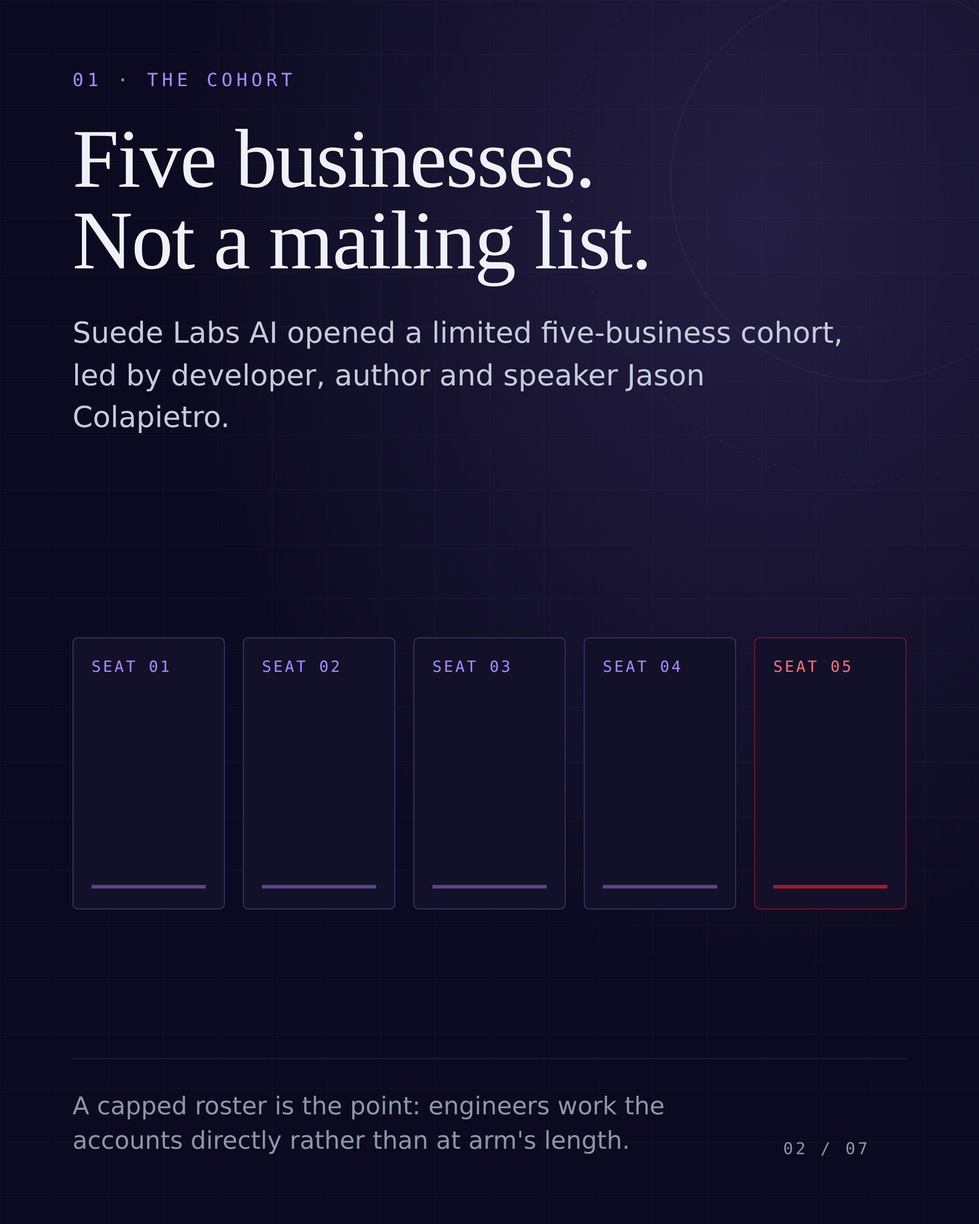
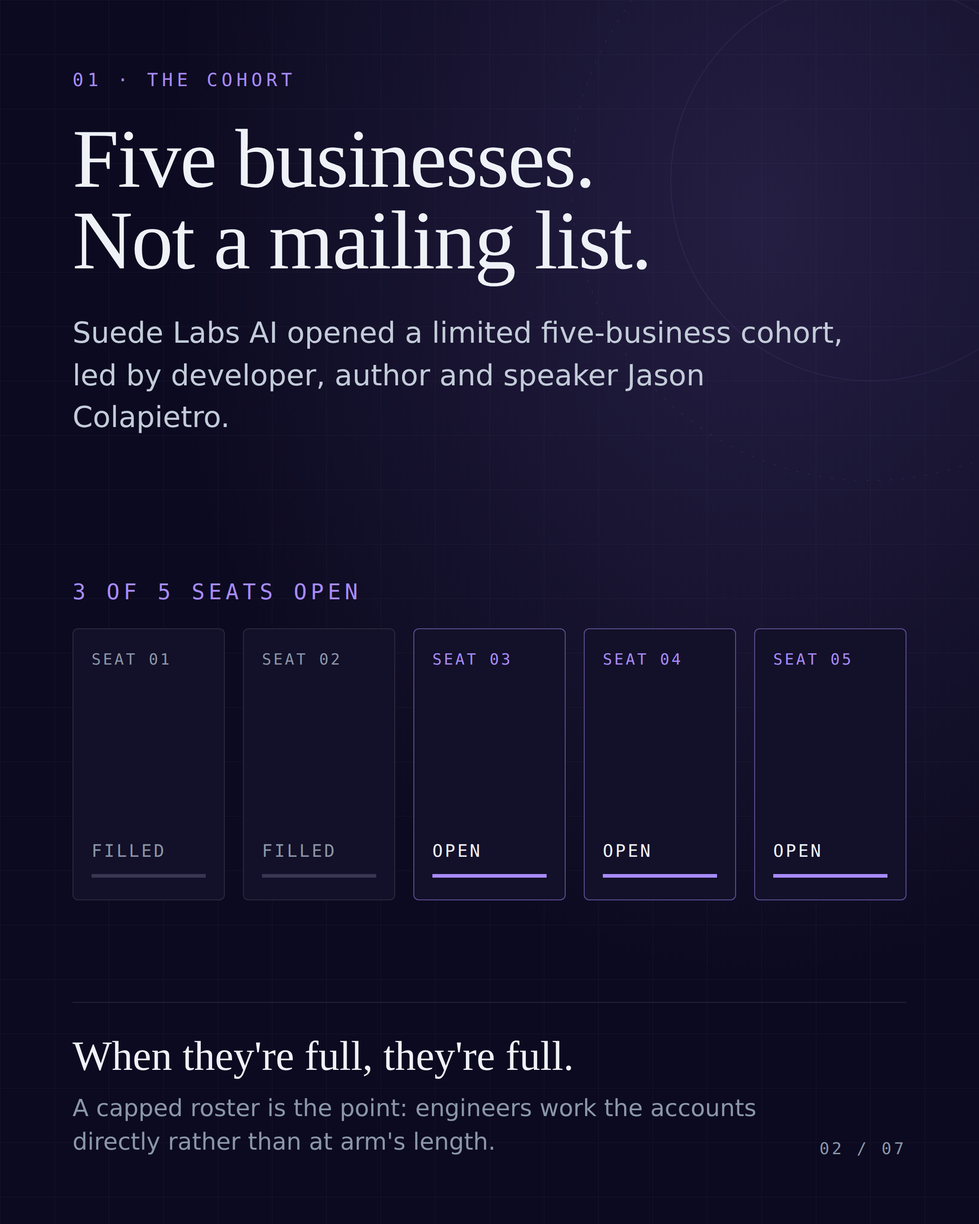
social: lead the carousel with MSN, state the open seat count
The cover's MSN credit was a small pill competing with the constellation
behind it. It is now the first thing on the slide: a plate with the rights-red
edge, "AS REPORTED ON" over MSN set at 92px in the display serif. Everything
else on the cover is unchanged.

The cohort's availability is live information and now says so. Slide 2 marks
seats 01-02 FILLED and 03-05 OPEN, headed "3 OF 5 SEATS OPEN" and closing on
"When they're full, they're full."; the cover carries the count as a chip and
slide 7 repeats it at the call to action, where the ask actually is. The
capped-roster note stays.

Hierarchy on the spent seats comes from the border and rule rather than
dimmer text: #5b5670 on the card reads 2.3:1, so the labels stay at the muted
token and only the non-text furniture dims. Seat cards clear AA in both
themes, lowest 6.10:1.

Two fixes found while rendering. The page number wrapped to two lines once the
slide 2 footer grew, so every footer number is now nowrap and unshrinkable.
And the light theme mapped panel ink by enumerating each alpha, so the new
cover plate and chip stayed dark on paper; it matches the surface colour at
any alpha now, and the leftover check covers both surface inks.

Sources 03-06 change only by that nowrap rule and re-render byte-identical.

Claude-Session: https://claude.ai/code/session_014U9jyxKPEFNFUuQV97f7mV

diff --git a/social/ig-carousel/src/dark-02-five-businesses.html b/social/ig-carousel/src/dark-02-five-businesses.html
@@ -46,34 +46,54 @@ a { color: #a78bfa; } a:hover { color: #c4b5fd; }
 
     <span style="flex-grow: 1;"></span>
 
-    <div style="margin-top: 56px; display: flex; gap: 20px;">
-      <div style="flex-grow: 1; height: 300px; border: 1px solid rgba(167, 139, 250, 0.30); border-radius: 6px; background: #131029; display: flex; flex-direction: column; justify-content: space-between; padding: 22px 20px; box-sizing: border-box;">
-        <span style="font-family: 'Geist Mono', ui-monospace, monospace; font-size: 17px; letter-spacing: 0.14em; color: #a78bfa;">SEAT 01</span>
-        <span style="width: 100%; height: 4px; background: rgba(167, 139, 250, 0.45); display: block;"></span>
+    <p style="margin: 44px 0 0 0; font-family: 'Geist Mono', ui-monospace, monospace; font-size: 24px; letter-spacing: 0.18em; color: #a78bfa; font-weight: 500;">3 OF 5 SEATS OPEN</p>
+
+    <div style="margin-top: 26px; display: flex; gap: 20px;">
+      <div style="flex-grow: 1; flex-basis: 0; height: 300px; border: 1px solid rgba(255, 255, 255, 0.10); border-radius: 6px; background: #131029; display: flex; flex-direction: column; justify-content: space-between; padding: 24px 20px; box-sizing: border-box;">
+        <span style="font-family: 'Geist Mono', ui-monospace, monospace; font-size: 17px; letter-spacing: 0.14em; color: #8a97a8;">SEAT 01</span>
+        <div>
+          <span style="display: block; font-family: 'Geist Mono', ui-monospace, monospace; font-size: 19px; letter-spacing: 0.12em; color: #8a97a8; margin-bottom: 14px;">FILLED</span>
+          <span style="display: block; width: 100%; height: 4px; background: #3a3550;"></span>
+        </div>
       </div>
-      <div style="flex-grow: 1; height: 300px; border: 1px solid rgba(167, 139, 250, 0.30); border-radius: 6px; background: #131029; display: flex; flex-direction: column; justify-content: space-between; padding: 22px 20px; box-sizing: border-box;">
-        <span style="font-family: 'Geist Mono', ui-monospace, monospace; font-size: 17px; letter-spacing: 0.14em; color: #a78bfa;">SEAT 02</span>
-        <span style="width: 100%; height: 4px; background: rgba(167, 139, 250, 0.45); display: block;"></span>
+      <div style="flex-grow: 1; flex-basis: 0; height: 300px; border: 1px solid rgba(255, 255, 255, 0.10); border-radius: 6px; background: #131029; display: flex; flex-direction: column; justify-content: space-between; padding: 24px 20px; box-sizing: border-box;">
+        <span style="font-family: 'Geist Mono', ui-monospace, monospace; font-size: 17px; letter-spacing: 0.14em; color: #8a97a8;">SEAT 02</span>
+        <div>
+          <span style="display: block; font-family: 'Geist Mono', ui-monospace, monospace; font-size: 19px; letter-spacing: 0.12em; color: #8a97a8; margin-bottom: 14px;">FILLED</span>
+          <span style="display: block; width: 100%; height: 4px; background: #3a3550;"></span>
+        </div>
       </div>
-      <div style="flex-grow: 1; height: 300px; border: 1px solid rgba(167, 139, 250, 0.30); border-radius: 6px; background: #131029; display: flex; flex-direction: column; justify-content: space-between; padding: 22px 20px; box-sizing: border-box;">
+      <div style="flex-grow: 1; flex-basis: 0; height: 300px; border: 1px solid rgba(167, 139, 250, 0.50); border-radius: 6px; background: #131029; display: flex; flex-direction: column; justify-content: space-between; padding: 24px 20px; box-sizing: border-box;">
         <span style="font-family: 'Geist Mono', ui-monospace, monospace; font-size: 17px; letter-spacing: 0.14em; color: #a78bfa;">SEAT 03</span>
-        <span style="width: 100%; height: 4px; background: rgba(167, 139, 250, 0.45); display: block;"></span>
+        <div>
+          <span style="display: block; font-family: 'Geist Mono', ui-monospace, monospace; font-size: 19px; letter-spacing: 0.12em; color: #eef2f7; margin-bottom: 14px;">OPEN</span>
+          <span style="display: block; width: 100%; height: 4px; background: #a78bfa;"></span>
+        </div>
       </div>
-      <div style="flex-grow: 1; height: 300px; border: 1px solid rgba(167, 139, 250, 0.30); border-radius: 6px; background: #131029; display: flex; flex-direction: column; justify-content: space-between; padding: 22px 20px; box-sizing: border-box;">
+      <div style="flex-grow: 1; flex-basis: 0; height: 300px; border: 1px solid rgba(167, 139, 250, 0.50); border-radius: 6px; background: #131029; display: flex; flex-direction: column; justify-content: space-between; padding: 24px 20px; box-sizing: border-box;">
         <span style="font-family: 'Geist Mono', ui-monospace, monospace; font-size: 17px; letter-spacing: 0.14em; color: #a78bfa;">SEAT 04</span>
-        <span style="width: 100%; height: 4px; background: rgba(167, 139, 250, 0.45); display: block;"></span>
+        <div>
+          <span style="display: block; font-family: 'Geist Mono', ui-monospace, monospace; font-size: 19px; letter-spacing: 0.12em; color: #eef2f7; margin-bottom: 14px;">OPEN</span>
+          <span style="display: block; width: 100%; height: 4px; background: #a78bfa;"></span>
+        </div>
       </div>
-      <div style="flex-grow: 1; height: 300px; border: 1px solid rgba(209, 31, 43, 0.55); border-radius: 6px; background: #131029; display: flex; flex-direction: column; justify-content: space-between; padding: 22px 20px; box-sizing: border-box;">
-        <span style="font-family: 'Geist Mono', ui-monospace, monospace; font-size: 17px; letter-spacing: 0.14em; color: #f07179;">SEAT 05</span>
-        <span style="width: 100%; height: 4px; background: rgba(209, 31, 43, 0.75); display: block;"></span>
+      <div style="flex-grow: 1; flex-basis: 0; height: 300px; border: 1px solid rgba(167, 139, 250, 0.50); border-radius: 6px; background: #131029; display: flex; flex-direction: column; justify-content: space-between; padding: 24px 20px; box-sizing: border-box;">
+        <span style="font-family: 'Geist Mono', ui-monospace, monospace; font-size: 17px; letter-spacing: 0.14em; color: #a78bfa;">SEAT 05</span>
+        <div>
+          <span style="display: block; font-family: 'Geist Mono', ui-monospace, monospace; font-size: 19px; letter-spacing: 0.12em; color: #eef2f7; margin-bottom: 14px;">OPEN</span>
+          <span style="display: block; width: 100%; height: 4px; background: #a78bfa;"></span>
+        </div>
       </div>
     </div>
 
     <span style="flex-grow: 1;"></span>
 
     <div style="border-top: 1px solid rgba(255, 255, 255, 0.10); padding-top: 34px; display: flex; align-items: flex-end; gap: 24px;">
-      <p style="margin: 0; flex-grow: 1; font-size: 27px; line-height: 1.4; color: #8a97a8; max-width: 760px; font-weight: 300;">A capped roster is the point: engineers work the accounts directly rather than at arm's length.</p>
-      <p style="margin: 0; font-family: 'Geist Mono', ui-monospace, monospace; font-size: 18px; letter-spacing: 0.16em; color: #8a97a8;">02 / 07</p>
+      <div style="flex-grow: 1; max-width: 800px;">
+        <p style="margin: 0; font-family: 'Instrument Serif', Georgia, serif; font-size: 46px; line-height: 1.08; color: #eef2f7; font-weight: 400;">When they're full, they're full.</p>
+        <p style="margin: 16px 0 0 0; font-size: 26px; line-height: 1.4; color: #8a97a8; font-weight: 300;">A capped roster is the point: engineers work the accounts directly rather than at arm's length.</p>
+      </div>
+      <p style="margin: 0; font-family: 'Geist Mono', ui-monospace, monospace; font-size: 18px; letter-spacing: 0.16em; color: #8a97a8; white-space: nowrap; flex-shrink: 0;">02 / 07</p>
     </div>
 
   </div>

diff --git a/social/ig-carousel/src/light-02-five-businesses.html b/social/ig-carousel/src/light-02-five-businesses.html
@@ -46,34 +46,54 @@ a { color: #6d28d9; } a:hover { color: #7c3aed; }
 
     <span style="flex-grow: 1;"></span>
 
-    <div style="margin-top: 56px; display: flex; gap: 20px;">
-      <div style="flex-grow: 1; height: 300px; border: 1px solid rgba(109, 40, 217, 0.30); border-radius: 6px; background: #f1eefb; display: flex; flex-direction: column; justify-content: space-between; padding: 22px 20px; box-sizing: border-box;">
-        <span style="font-family: 'Geist Mono', ui-monospace, monospace; font-size: 17px; letter-spacing: 0.14em; color: #6d28d9;">SEAT 01</span>
-        <span style="width: 100%; height: 4px; background: rgba(109, 40, 217, 0.45); display: block;"></span>
+    <p style="margin: 44px 0 0 0; font-family: 'Geist Mono', ui-monospace, monospace; font-size: 24px; letter-spacing: 0.18em; color: #6d28d9; font-weight: 500;">3 OF 5 SEATS OPEN</p>
+
+    <div style="margin-top: 26px; display: flex; gap: 20px;">
+      <div style="flex-grow: 1; flex-basis: 0; height: 300px; border: 1px solid rgba(20, 18, 31, 0.14); border-radius: 6px; background: #f1eefb; display: flex; flex-direction: column; justify-content: space-between; padding: 24px 20px; box-sizing: border-box;">
+        <span style="font-family: 'Geist Mono', ui-monospace, monospace; font-size: 17px; letter-spacing: 0.14em; color: #5b5670;">SEAT 01</span>
+        <div>
+          <span style="display: block; font-family: 'Geist Mono', ui-monospace, monospace; font-size: 19px; letter-spacing: 0.12em; color: #5b5670; margin-bottom: 14px;">FILLED</span>
+          <span style="display: block; width: 100%; height: 4px; background: #d6d1e4;"></span>
+        </div>
       </div>
-      <div style="flex-grow: 1; height: 300px; border: 1px solid rgba(109, 40, 217, 0.30); border-radius: 6px; background: #f1eefb; display: flex; flex-direction: column; justify-content: space-between; padding: 22px 20px; box-sizing: border-box;">
-        <span style="font-family: 'Geist Mono', ui-monospace, monospace; font-size: 17px; letter-spacing: 0.14em; color: #6d28d9;">SEAT 02</span>
-        <span style="width: 100%; height: 4px; background: rgba(109, 40, 217, 0.45); display: block;"></span>
+      <div style="flex-grow: 1; flex-basis: 0; height: 300px; border: 1px solid rgba(20, 18, 31, 0.14); border-radius: 6px; background: #f1eefb; display: flex; flex-direction: column; justify-content: space-between; padding: 24px 20px; box-sizing: border-box;">
+        <span style="font-family: 'Geist Mono', ui-monospace, monospace; font-size: 17px; letter-spacing: 0.14em; color: #5b5670;">SEAT 02</span>
+        <div>
+          <span style="display: block; font-family: 'Geist Mono', ui-monospace, monospace; font-size: 19px; letter-spacing: 0.12em; color: #5b5670; margin-bottom: 14px;">FILLED</span>
+          <span style="display: block; width: 100%; height: 4px; background: #d6d1e4;"></span>
+        </div>
       </div>
-      <div style="flex-grow: 1; height: 300px; border: 1px solid rgba(109, 40, 217, 0.30); border-radius: 6px; background: #f1eefb; display: flex; flex-direction: column; justify-content: space-between; padding: 22px 20px; box-sizing: border-box;">
+      <div style="flex-grow: 1; flex-basis: 0; height: 300px; border: 1px solid rgba(109, 40, 217, 0.50); border-radius: 6px; background: #f1eefb; display: flex; flex-direction: column; justify-content: space-between; padding: 24px 20px; box-sizing: border-box;">
         <span style="font-family: 'Geist Mono', ui-monospace, monospace; font-size: 17px; letter-spacing: 0.14em; color: #6d28d9;">SEAT 03</span>
-        <span style="width: 100%; height: 4px; background: rgba(109, 40, 217, 0.45); display: block;"></span>
+        <div>
+          <span style="display: block; font-family: 'Geist Mono', ui-monospace, monospace; font-size: 19px; letter-spacing: 0.12em; color: #14121f; margin-bottom: 14px;">OPEN</span>
+          <span style="display: block; width: 100%; height: 4px; background: #6d28d9;"></span>
+        </div>
       </div>
-      <div style="flex-grow: 1; height: 300px; border: 1px solid rgba(109, 40, 217, 0.30); border-radius: 6px; background: #f1eefb; display: flex; flex-direction: column; justify-content: space-between; padding: 22px 20px; box-sizing: border-box;">
+      <div style="flex-grow: 1; flex-basis: 0; height: 300px; border: 1px solid rgba(109, 40, 217, 0.50); border-radius: 6px; background: #f1eefb; display: flex; flex-direction: column; justify-content: space-between; padding: 24px 20px; box-sizing: border-box;">
         <span style="font-family: 'Geist Mono', ui-monospace, monospace; font-size: 17px; letter-spacing: 0.14em; color: #6d28d9;">SEAT 04</span>
-        <span style="width: 100%; height: 4px; background: rgba(109, 40, 217, 0.45); display: block;"></span>
+        <div>
+          <span style="display: block; font-family: 'Geist Mono', ui-monospace, monospace; font-size: 19px; letter-spacing: 0.12em; color: #14121f; margin-bottom: 14px;">OPEN</span>
+          <span style="display: block; width: 100%; height: 4px; background: #6d28d9;"></span>
+        </div>
       </div>
-      <div style="flex-grow: 1; height: 300px; border: 1px solid rgba(185, 28, 28, 0.55); border-radius: 6px; background: #f1eefb; display: flex; flex-direction: column; justify-content: space-between; padding: 22px 20px; box-sizing: border-box;">
-        <span style="font-family: 'Geist Mono', ui-monospace, monospace; font-size: 17px; letter-spacing: 0.14em; color: #b91c1c;">SEAT 05</span>
-        <span style="width: 100%; height: 4px; background: rgba(185, 28, 28, 0.75); display: block;"></span>
+      <div style="flex-grow: 1; flex-basis: 0; height: 300px; border: 1px solid rgba(109, 40, 217, 0.50); border-radius: 6px; background: #f1eefb; display: flex; flex-direction: column; justify-content: space-between; padding: 24px 20px; box-sizing: border-box;">
+        <span style="font-family: 'Geist Mono', ui-monospace, monospace; font-size: 17px; letter-spacing: 0.14em; color: #6d28d9;">SEAT 05</span>
+        <div>
+          <span style="display: block; font-family: 'Geist Mono', ui-monospace, monospace; font-size: 19px; letter-spacing: 0.12em; color: #14121f; margin-bottom: 14px;">OPEN</span>
+          <span style="display: block; width: 100%; height: 4px; background: #6d28d9;"></span>
+        </div>
       </div>
     </div>
 
     <span style="flex-grow: 1;"></span>
 
     <div style="border-top: 1px solid rgba(20, 18, 31, 0.14); padding-top: 34px; display: flex; align-items: flex-end; gap: 24px;">
-      <p style="margin: 0; flex-grow: 1; font-size: 27px; line-height: 1.4; color: #5b5670; max-width: 760px; font-weight: 300;">A capped roster is the point: engineers work the accounts directly rather than at arm's length.</p>
-      <p style="margin: 0; font-family: 'Geist Mono', ui-monospace, monospace; font-size: 18px; letter-spacing: 0.16em; color: #5b5670;">02 / 07</p>
+      <div style="flex-grow: 1; max-width: 800px;">
+        <p style="margin: 0; font-family: 'Instrument Serif', Georgia, serif; font-size: 46px; line-height: 1.08; color: #14121f; font-weight: 400;">When they're full, they're full.</p>
+        <p style="margin: 16px 0 0 0; font-size: 26px; line-height: 1.4; color: #5b5670; font-weight: 300;">A capped roster is the point: engineers work the accounts directly rather than at arm's length.</p>
+      </div>
+      <p style="margin: 0; font-family: 'Geist Mono', ui-monospace, monospace; font-size: 18px; letter-spacing: 0.16em; color: #5b5670; white-space: nowrap; flex-shrink: 0;">02 / 07</p>
     </div>
 
   </div>

diff --git a/social/ig-carousel/src/light-01-cover.html b/social/ig-carousel/src/light-01-cover.html
@@ -87,13 +87,16 @@ a { color: #6d28d9; } a:hover { color: #7c3aed; }
 
   <div style="position: relative; width: 1080px; height: 1350px; box-sizing: border-box; padding: 76px 80px 72px 80px; display: flex; flex-direction: column;">
 
-    <div style="display: flex; align-items: center; gap: 20px;">
-      <div style="display: flex; align-items: center; gap: 12px; padding: 12px 22px; border: 1px solid rgba(109, 40, 217, 0.38); border-radius: 999px; background: rgba(255, 255, 255, 0.90);">
-        <span style="width: 10px; height: 10px; border-radius: 999px; background: #b91c1c; display: inline-block;"></span>
-        <span style="font-family: 'Geist Mono', ui-monospace, monospace; font-size: 20px; letter-spacing: 0.18em; color: #14121f; font-weight: 500;">AS REPORTED ON MSN</span>
+    <div style="display: flex; align-items: stretch; border: 1px solid rgba(109, 40, 217, 0.32); border-radius: 8px; background: rgba(255, 255, 255, 0.90); overflow: hidden;">
+      <div style="width: 10px; background: #9f101a; flex-shrink: 0;"></div>
+      <div style="flex-grow: 1; padding: 24px 32px 28px 32px;">
+        <p style="margin: 0; font-family: 'Geist Mono', ui-monospace, monospace; font-size: 19px; letter-spacing: 0.24em; color: #5b5670; font-weight: 500;">AS REPORTED ON</p>
+        <div style="margin-top: 6px; display: flex; align-items: baseline; gap: 22px;">
+          <p style="margin: 0; font-family: 'Instrument Serif', Georgia, serif; font-size: 92px; line-height: 1; color: #14121f; font-weight: 400; letter-spacing: 0.01em;">MSN</p>
+          <span style="flex-grow: 1;"></span>
+          <p style="margin: 0; font-family: 'Geist Mono', ui-monospace, monospace; font-size: 19px; letter-spacing: 0.16em; color: #5b5670;">SEPT 2026</p>
+        </div>
       </div>
-      <span style="flex-grow: 1;"></span>
-      <span style="font-family: 'Geist Mono', ui-monospace, monospace; font-size: 19px; letter-spacing: 0.16em; color: #5b5670;">SEPT 2026</span>
     </div>
 
     <span style="flex-grow: 1;"></span>
@@ -106,11 +109,16 @@ a { color: #6d28d9; } a:hover { color: #7c3aed; }
 
     <p style="margin: 34px 0 0 0; font-size: 34px; line-height: 1.42; color: #3f3a52; max-width: 840px; font-weight: 300;">Five businesses. Search, answer and generative engine optimization — with optional AI integration and live agent workflows.</p>
 
-    <div style="margin-top: 56px; display: flex; align-items: flex-end; gap: 24px;">
+    <div style="margin-top: 32px; display: flex; align-items: center; gap: 14px; align-self: flex-start; padding: 15px 26px; border: 1px solid rgba(109, 40, 217, 0.50); border-radius: 999px; background: rgba(255, 255, 255, 0.92);">
+      <span style="width: 10px; height: 10px; border-radius: 999px; background: #6d28d9; display: inline-block;"></span>
+      <span style="font-family: 'Geist Mono', ui-monospace, monospace; font-size: 22px; letter-spacing: 0.16em; color: #14121f; font-weight: 500;">3 OF 5 SEATS OPEN</span>
+    </div>
+
+    <div style="margin-top: 40px; display: flex; align-items: flex-end; gap: 24px;">
       <div style="flex-grow: 1;">
-        <p style="margin: 0; font-family: 'Geist Mono', ui-monospace, monospace; font-size: 18px; letter-spacing: 0.16em; color: #5b5670;">SWIPE →</p>
+        <p style="margin: 0; font-family: 'Geist Mono', ui-monospace, monospace; font-size: 18px; letter-spacing: 0.16em; color: #5b5670; white-space: nowrap; flex-shrink: 0;">SWIPE →</p>
       </div>
-      <p style="margin: 0; font-family: 'Geist Mono', ui-monospace, monospace; font-size: 18px; letter-spacing: 0.16em; color: #5b5670;">01 / 07</p>
+      <p style="margin: 0; font-family: 'Geist Mono', ui-monospace, monospace; font-size: 18px; letter-spacing: 0.16em; color: #5b5670; white-space: nowrap; flex-shrink: 0;">01 / 07</p>
     </div>
 
   </div>

diff --git a/social/ig-carousel/src/dark-01-cover.html b/social/ig-carousel/src/dark-01-cover.html
@@ -87,13 +87,16 @@ a { color: #a78bfa; } a:hover { color: #c4b5fd; }
 
   <div style="position: relative; width: 1080px; height: 1350px; box-sizing: border-box; padding: 76px 80px 72px 80px; display: flex; flex-direction: column;">
 
-    <div style="display: flex; align-items: center; gap: 20px;">
-      <div style="display: flex; align-items: center; gap: 12px; padding: 12px 22px; border: 1px solid rgba(167, 139, 250, 0.38); border-radius: 999px; background: rgba(19, 16, 41, 0.82);">
-        <span style="width: 10px; height: 10px; border-radius: 999px; background: #d11f2b; display: inline-block;"></span>
-        <span style="font-family: 'Geist Mono', ui-monospace, monospace; font-size: 20px; letter-spacing: 0.18em; color: #eef2f7; font-weight: 500;">AS REPORTED ON MSN</span>
+    <div style="display: flex; align-items: stretch; border: 1px solid rgba(167, 139, 250, 0.32); border-radius: 8px; background: rgba(19, 16, 41, 0.90); overflow: hidden;">
+      <div style="width: 10px; background: #9f101a; flex-shrink: 0;"></div>
+      <div style="flex-grow: 1; padding: 24px 32px 28px 32px;">
+        <p style="margin: 0; font-family: 'Geist Mono', ui-monospace, monospace; font-size: 19px; letter-spacing: 0.24em; color: #8a97a8; font-weight: 500;">AS REPORTED ON</p>
+        <div style="margin-top: 6px; display: flex; align-items: baseline; gap: 22px;">
+          <p style="margin: 0; font-family: 'Instrument Serif', Georgia, serif; font-size: 92px; line-height: 1; color: #eef2f7; font-weight: 400; letter-spacing: 0.01em;">MSN</p>
+          <span style="flex-grow: 1;"></span>
+          <p style="margin: 0; font-family: 'Geist Mono', ui-monospace, monospace; font-size: 19px; letter-spacing: 0.16em; color: #8a97a8;">SEPT 2026</p>
+        </div>
       </div>
-      <span style="flex-grow: 1;"></span>
-      <span style="font-family: 'Geist Mono', ui-monospace, monospace; font-size: 19px; letter-spacing: 0.16em; color: #8a97a8;">SEPT 2026</span>
     </div>
 
     <span style="flex-grow: 1;"></span>
@@ -106,11 +109,16 @@ a { color: #a78bfa; } a:hover { color: #c4b5fd; }
 
     <p style="margin: 34px 0 0 0; font-size: 34px; line-height: 1.42; color: #c3ccd9; max-width: 840px; font-weight: 300;">Five businesses. Search, answer and generative engine optimization — with optional AI integration and live agent workflows.</p>
 
-    <div style="margin-top: 56px; display: flex; align-items: flex-end; gap: 24px;">
+    <div style="margin-top: 32px; display: flex; align-items: center; gap: 14px; align-self: flex-start; padding: 15px 26px; border: 1px solid rgba(167, 139, 250, 0.50); border-radius: 999px; background: rgba(19, 16, 41, 0.92);">
+      <span style="width: 10px; height: 10px; border-radius: 999px; background: #a78bfa; display: inline-block;"></span>
+      <span style="font-family: 'Geist Mono', ui-monospace, monospace; font-size: 22px; letter-spacing: 0.16em; color: #eef2f7; font-weight: 500;">3 OF 5 SEATS OPEN</span>
+    </div>
+
+    <div style="margin-top: 40px; display: flex; align-items: flex-end; gap: 24px;">
       <div style="flex-grow: 1;">
-        <p style="margin: 0; font-family: 'Geist Mono', ui-monospace, monospace; font-size: 18px; letter-spacing: 0.16em; color: #8a97a8;">SWIPE →</p>
+        <p style="margin: 0; font-family: 'Geist Mono', ui-monospace, monospace; font-size: 18px; letter-spacing: 0.16em; color: #8a97a8; white-space: nowrap; flex-shrink: 0;">SWIPE →</p>
       </div>
-      <p style="margin: 0; font-family: 'Geist Mono', ui-monospace, monospace; font-size: 18px; letter-spacing: 0.16em; color: #8a97a8;">01 / 07</p>
+      <p style="margin: 0; font-family: 'Geist Mono', ui-monospace, monospace; font-size: 18px; letter-spacing: 0.16em; color: #8a97a8; white-space: nowrap; flex-shrink: 0;">01 / 07</p>
     </div>
 
   </div>

diff --git a/social/ig-carousel/src/dark-07-read-on-msn.html b/social/ig-carousel/src/dark-07-read-on-msn.html
@@ -96,12 +96,14 @@ a { color: #a78bfa; } a:hover { color: #c4b5fd; }
       <svg width="26" height="26" viewBox="0 0 24 24" fill="none" stroke="#a78bfa" stroke-width="1.5" stroke-linecap="round" stroke-linejoin="round" aria-hidden="true" focusable="false" style="flex-shrink: 0;"><path d="M8 16 L16 8"></path><path d="M9.4 8 H16 v6.6"></path></svg>
     </div>
 
-    <div style="margin-top: 54px; padding-top: 34px; border-top: 1px solid rgba(255, 255, 255, 0.10); display: flex; align-items: flex-end; gap: 24px;">
+    <p style="margin: 30px 0 0 0; font-size: 28px; line-height: 1.38; color: #a78bfa; font-weight: 400;">3 of 5 seats open — when they're full, they're full.</p>
+
+    <div style="margin-top: 38px; padding-top: 34px; border-top: 1px solid rgba(255, 255, 255, 0.10); display: flex; align-items: flex-end; gap: 24px;">
       <div style="flex-grow: 1;">
         <p style="margin: 0; font-family: 'Instrument Serif', Georgia, serif; font-size: 46px; line-height: 1.05; color: #eef2f7; font-weight: 400;">Suede Labs AI</p>
         <p style="margin: 12px 0 0 0; font-family: 'Geist Mono', ui-monospace, monospace; font-size: 21px; letter-spacing: 0.12em; color: #8a97a8;">suedeai.org &nbsp;·&nbsp; @AISUEDE</p>
       </div>
-      <p style="margin: 0; font-family: 'Geist Mono', ui-monospace, monospace; font-size: 18px; letter-spacing: 0.16em; color: #8a97a8;">07 / 07</p>
+      <p style="margin: 0; font-family: 'Geist Mono', ui-monospace, monospace; font-size: 18px; letter-spacing: 0.16em; color: #8a97a8; white-space: nowrap; flex-shrink: 0;">07 / 07</p>
     </div>
 
   </div>

diff --git a/social/ig-carousel/src/light-07-read-on-msn.html b/social/ig-carousel/src/light-07-read-on-msn.html
@@ -96,12 +96,14 @@ a { color: #6d28d9; } a:hover { color: #7c3aed; }
       <svg width="26" height="26" viewBox="0 0 24 24" fill="none" stroke="#6d28d9" stroke-width="1.5" stroke-linecap="round" stroke-linejoin="round" aria-hidden="true" focusable="false" style="flex-shrink: 0;"><path d="M8 16 L16 8"></path><path d="M9.4 8 H16 v6.6"></path></svg>
     </div>
 
-    <div style="margin-top: 54px; padding-top: 34px; border-top: 1px solid rgba(20, 18, 31, 0.14); display: flex; align-items: flex-end; gap: 24px;">
+    <p style="margin: 30px 0 0 0; font-size: 28px; line-height: 1.38; color: #6d28d9; font-weight: 400;">3 of 5 seats open — when they're full, they're full.</p>
+
+    <div style="margin-top: 38px; padding-top: 34px; border-top: 1px solid rgba(20, 18, 31, 0.14); display: flex; align-items: flex-end; gap: 24px;">
       <div style="flex-grow: 1;">
         <p style="margin: 0; font-family: 'Instrument Serif', Georgia, serif; font-size: 46px; line-height: 1.05; color: #14121f; font-weight: 400;">Suede Labs AI</p>
         <p style="margin: 12px 0 0 0; font-family: 'Geist Mono', ui-monospace, monospace; font-size: 21px; letter-spacing: 0.12em; color: #5b5670;">suedeai.org &nbsp;·&nbsp; @AISUEDE</p>
       </div>
-      <p style="margin: 0; font-family: 'Geist Mono', ui-monospace, monospace; font-size: 18px; letter-spacing: 0.16em; color: #5b5670;">07 / 07</p>
+      <p style="margin: 0; font-family: 'Geist Mono', ui-monospace, monospace; font-size: 18px; letter-spacing: 0.16em; color: #5b5670; white-space: nowrap; flex-shrink: 0;">07 / 07</p>
     </div>
 
   </div>

diff --git a/social/ig-carousel/src/dark-06-agent-studio.html b/social/ig-carousel/src/dark-06-agent-studio.html
@@ -84,7 +84,7 @@ a { color: #a78bfa; } a:hover { color: #c4b5fd; }
 
     <div style="border-top: 1px solid rgba(255, 255, 255, 0.10); padding-top: 32px; display: flex; align-items: flex-end; gap: 24px;">
       <p style="margin: 0; flex-grow: 1; font-size: 27px; line-height: 1.4; color: #8a97a8; max-width: 760px; font-weight: 300;">Not a black box — clients follow the workflow and see how the systems are being integrated.</p>
-      <p style="margin: 0; font-family: 'Geist Mono', ui-monospace, monospace; font-size: 18px; letter-spacing: 0.16em; color: #8a97a8;">06 / 07</p>
+      <p style="margin: 0; font-family: 'Geist Mono', ui-monospace, monospace; font-size: 18px; letter-spacing: 0.16em; color: #8a97a8; white-space: nowrap; flex-shrink: 0;">06 / 07</p>
     </div>
 
   </div>

diff --git a/social/ig-carousel/src/light-06-agent-studio.html b/social/ig-carousel/src/light-06-agent-studio.html
@@ -84,7 +84,7 @@ a { color: #6d28d9; } a:hover { color: #7c3aed; }
 
     <div style="border-top: 1px solid rgba(20, 18, 31, 0.14); padding-top: 32px; display: flex; align-items: flex-end; gap: 24px;">
       <p style="margin: 0; flex-grow: 1; font-size: 27px; line-height: 1.4; color: #5b5670; max-width: 760px; font-weight: 300;">Not a black box — clients follow the workflow and see how the systems are being integrated.</p>
-      <p style="margin: 0; font-family: 'Geist Mono', ui-monospace, monospace; font-size: 18px; letter-spacing: 0.16em; color: #5b5670;">06 / 07</p>
+      <p style="margin: 0; font-family: 'Geist Mono', ui-monospace, monospace; font-size: 18px; letter-spacing: 0.16em; color: #5b5670; white-space: nowrap; flex-shrink: 0;">06 / 07</p>
     </div>
 
   </div>

diff --git a/social/ig-carousel/src/dark-05-training.html b/social/ig-carousel/src/dark-05-training.html
@@ -87,7 +87,7 @@ a { color: #a78bfa; } a:hover { color: #c4b5fd; }
 
     <div style="border-top: 1px solid rgba(255, 255, 255, 0.10); padding-top: 32px; display: flex; align-items: flex-end; gap: 24px;">
       <p style="margin: 0; flex-grow: 1; font-size: 27px; line-height: 1.4; color: #8a97a8; max-width: 760px; font-weight: 300;">Some decisions still require human approval. Staff are trained to recognize which ones.</p>
-      <p style="margin: 0; font-family: 'Geist Mono', ui-monospace, monospace; font-size: 18px; letter-spacing: 0.16em; color: #8a97a8;">05 / 07</p>
+      <p style="margin: 0; font-family: 'Geist Mono', ui-monospace, monospace; font-size: 18px; letter-spacing: 0.16em; color: #8a97a8; white-space: nowrap; flex-shrink: 0;">05 / 07</p>
     </div>
 
   </div>

diff --git a/social/ig-carousel/src/light-05-training.html b/social/ig-carousel/src/light-05-training.html
@@ -87,7 +87,7 @@ a { color: #6d28d9; } a:hover { color: #7c3aed; }
 
     <div style="border-top: 1px solid rgba(20, 18, 31, 0.14); padding-top: 32px; display: flex; align-items: flex-end; gap: 24px;">
       <p style="margin: 0; flex-grow: 1; font-size: 27px; line-height: 1.4; color: #5b5670; max-width: 760px; font-weight: 300;">Some decisions still require human approval. Staff are trained to recognize which ones.</p>
-      <p style="margin: 0; font-family: 'Geist Mono', ui-monospace, monospace; font-size: 18px; letter-spacing: 0.16em; color: #5b5670;">05 / 07</p>
+      <p style="margin: 0; font-family: 'Geist Mono', ui-monospace, monospace; font-size: 18px; letter-spacing: 0.16em; color: #5b5670; white-space: nowrap; flex-shrink: 0;">05 / 07</p>
     </div>
 
   </div>

diff --git a/social/ig-carousel/src/dark-03-seo-aeo-geo.html b/social/ig-carousel/src/dark-03-seo-aeo-geo.html
@@ -86,7 +86,7 @@ a { color: #a78bfa; } a:hover { color: #c4b5fd; }
 
     <span style="flex-grow: 1;"></span>
 
-    <p style="margin: 0; text-align: right; font-family: 'Geist Mono', ui-monospace, monospace; font-size: 18px; letter-spacing: 0.16em; color: #8a97a8;">03 / 07</p>
+    <p style="margin: 0; text-align: right; font-family: 'Geist Mono', ui-monospace, monospace; font-size: 18px; letter-spacing: 0.16em; color: #8a97a8; white-space: nowrap; flex-shrink: 0;">03 / 07</p>
 
   </div>
 </div>

diff --git a/social/ig-carousel/src/dark-04-ai-integration.html b/social/ig-carousel/src/dark-04-ai-integration.html
@@ -76,7 +76,7 @@ a { color: #a78bfa; } a:hover { color: #c4b5fd; }
 
     <span style="flex-grow: 1;"></span>
 
-    <p style="margin: 0; text-align: right; font-family: 'Geist Mono', ui-monospace, monospace; font-size: 18px; letter-spacing: 0.16em; color: #8a97a8;">04 / 07</p>
+    <p style="margin: 0; text-align: right; font-family: 'Geist Mono', ui-monospace, monospace; font-size: 18px; letter-spacing: 0.16em; color: #8a97a8; white-space: nowrap; flex-shrink: 0;">04 / 07</p>
 
   </div>
 </div>
